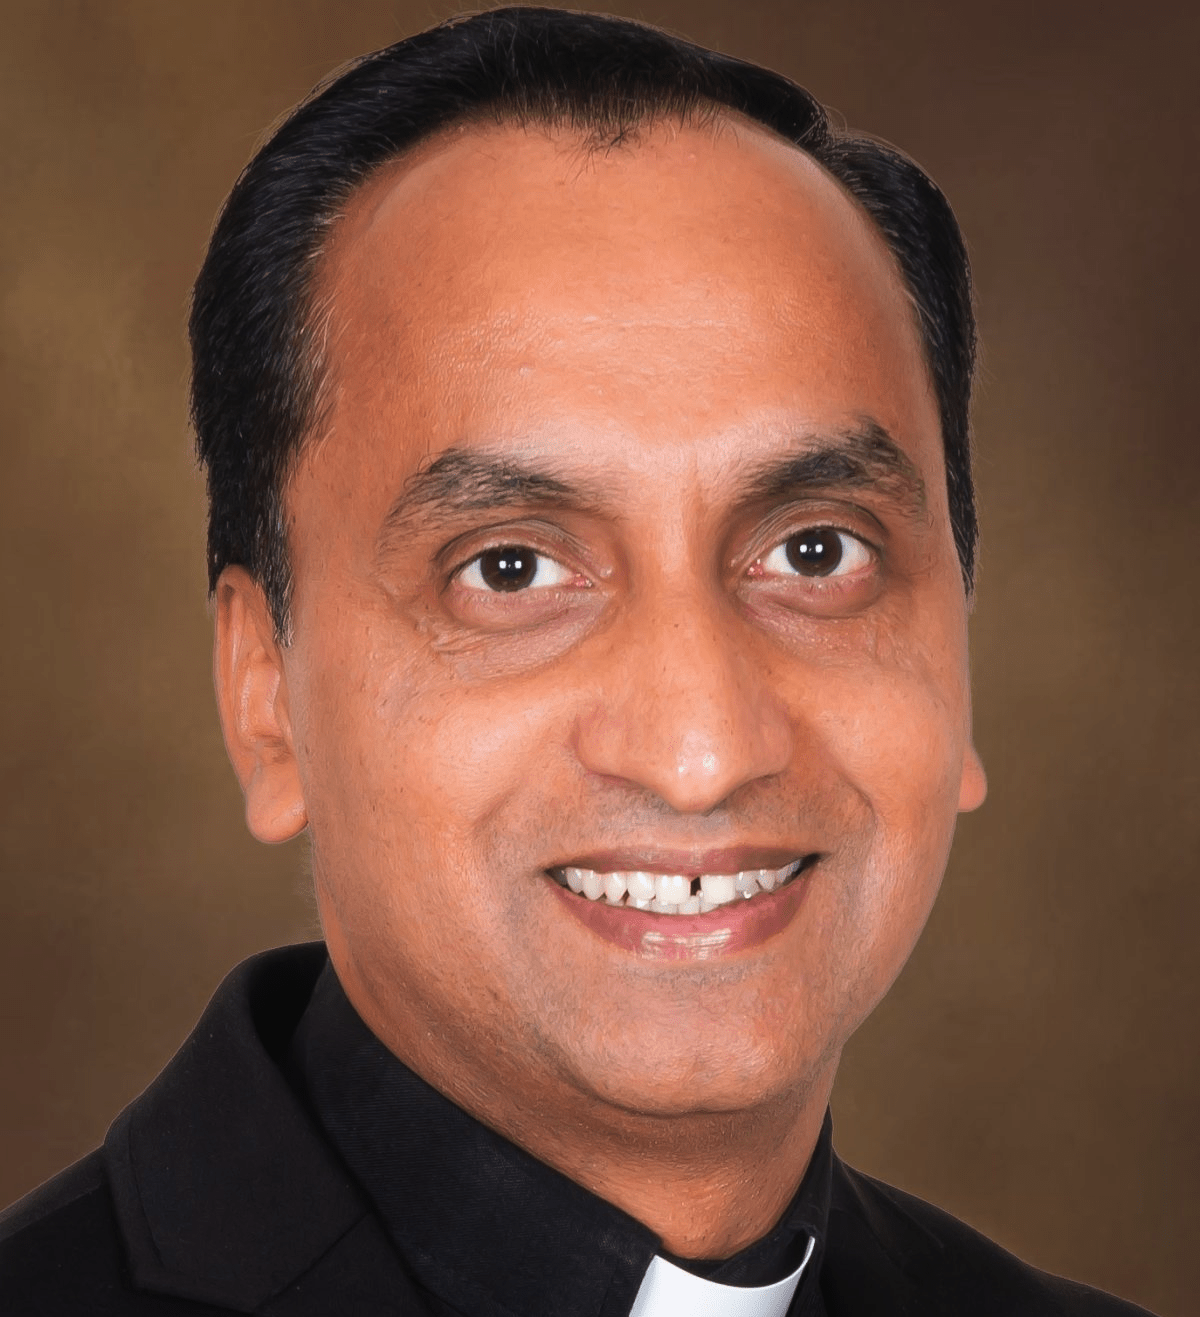
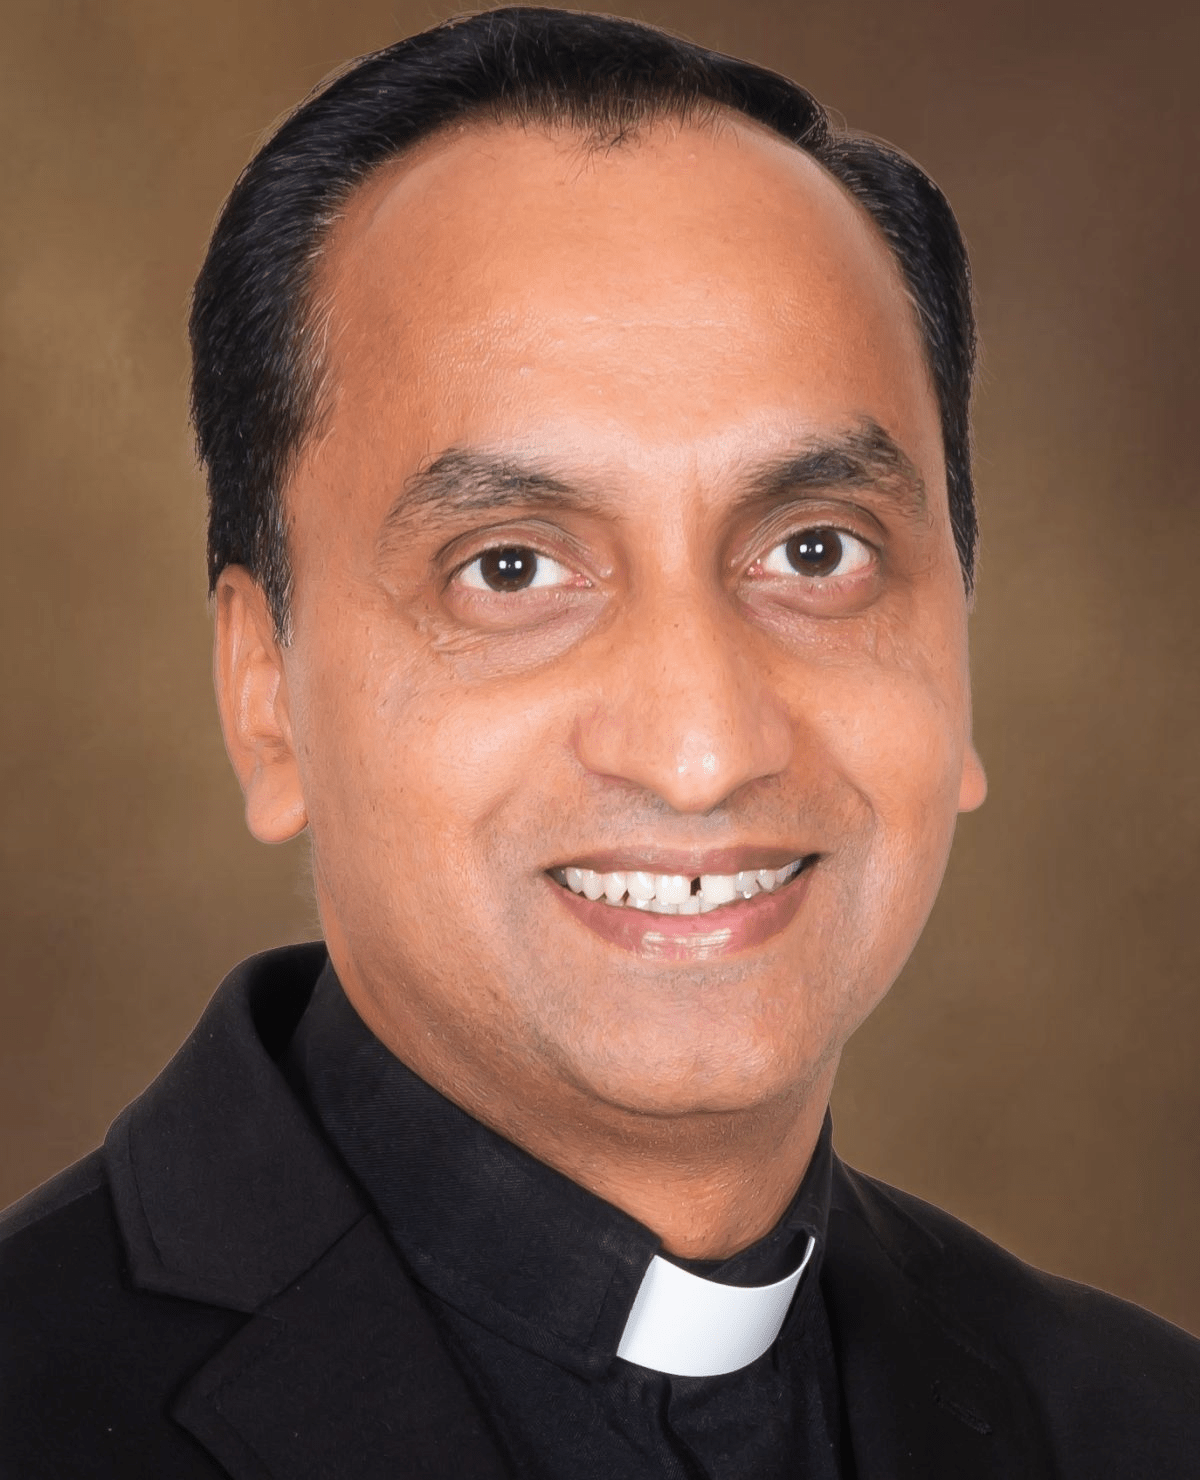
squared the achan picture

diff --git a/lib/pastor_info.dart b/lib/pastor_info.dart
@@ -36,7 +36,7 @@ class PastorPage extends StatelessWidget {
                                     fontWeight: FontWeight.bold
                                     ), 
                                     child: Text(
-                            'Father',
+                            'Vicar',
                             textAlign: TextAlign.center,                      
                             )
                                 )
@@ -58,10 +58,10 @@ class PastorPage extends StatelessWidget {
                         
                         Padding(
                           padding: const EdgeInsets.fromLTRB(0,30,0,0),
-                          child: CircleAvatar(
-                            foregroundImage: AssetImage('assets/Fr-Vinod.png'),
-                            radius: 80,
-                          ),
+                          child: ClipRRect(
+                                  child: Image.asset('assets/Fr-Vinod.png', height: 200,),
+                                  borderRadius: BorderRadius.circular(20),
+                                )
                         ),
                         Padding(
                           padding: EdgeInsets.fromLTRB(0, 15, 0, 0), 
@@ -83,7 +83,7 @@ class PastorPage extends StatelessWidget {
                               Icon(
                                 Icons.mail,
                               ),
-                              Text('vicar@stalphonsacatholicchurch.org')
+                              Text('vicar@sjp2smc.church')
                             ],
                         ),
                         ),
